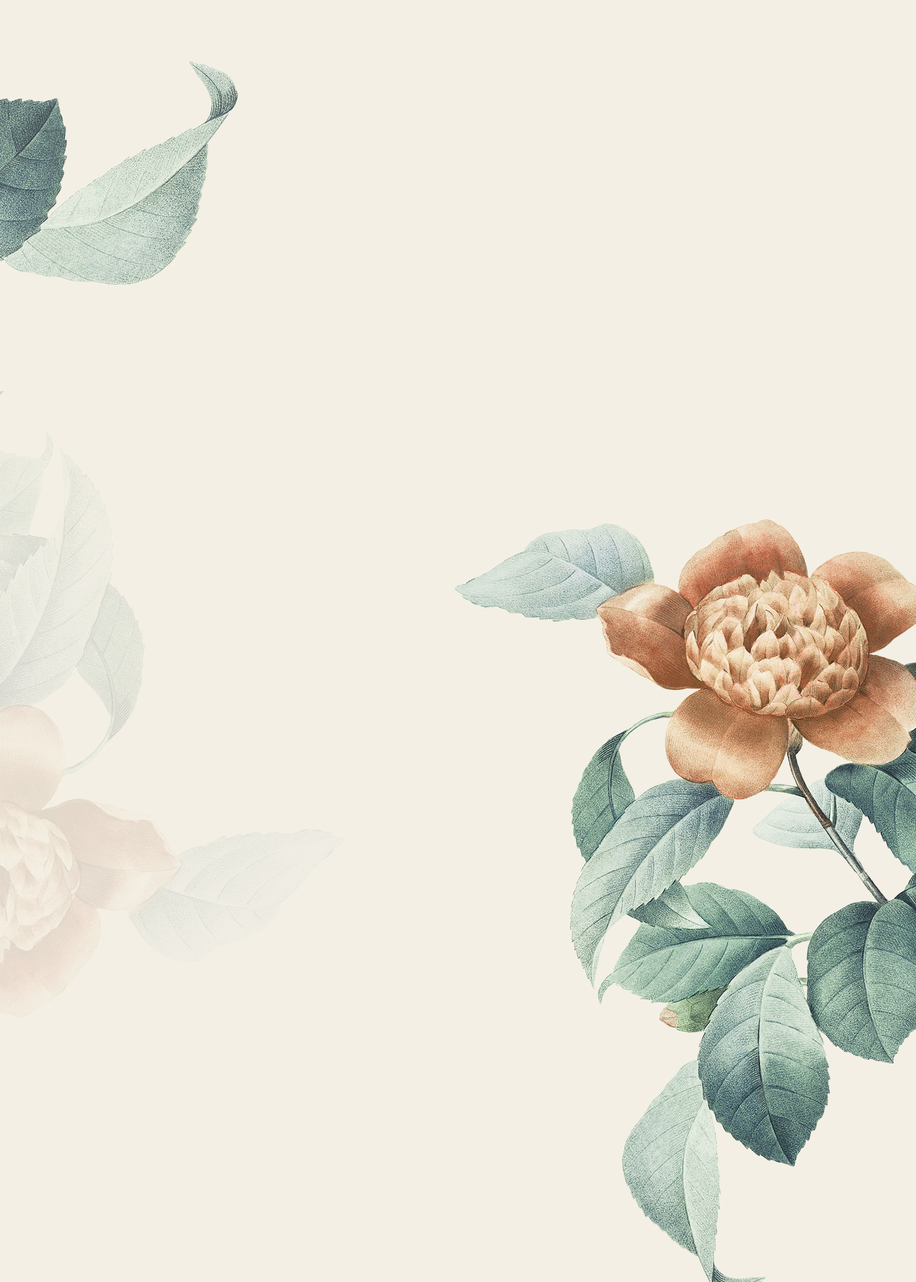
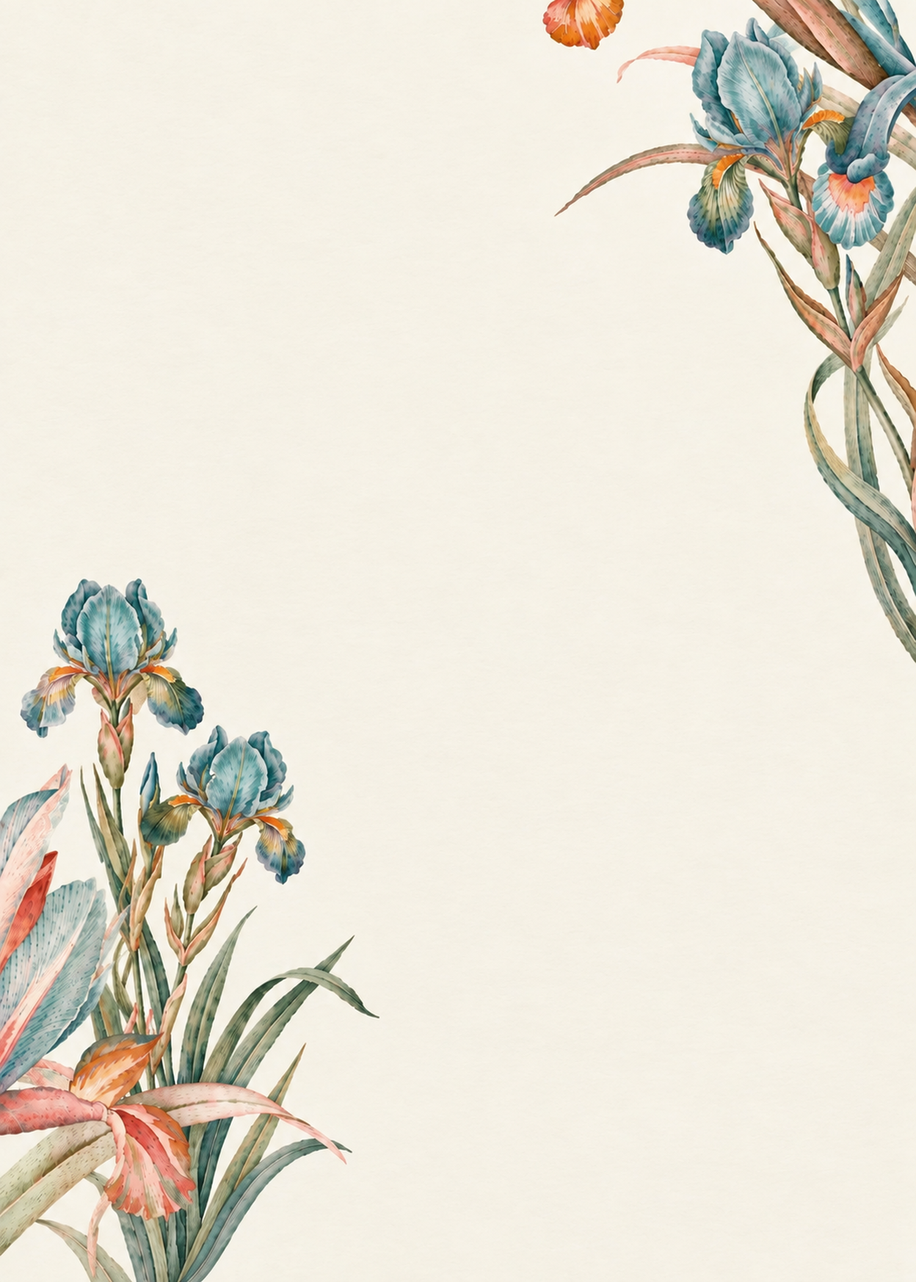
Degradado en los fondos | Cambios en tipografia inicial | Adicion de fotos nuevas

diff --git a/src/components/Invitacion/Direccion/Direccion.jsx b/src/components/Invitacion/Direccion/Direccion.jsx
@@ -52,15 +52,15 @@ export default function Direccion() {
                     variants={itemVariants}
                 >
                     <motion.p
-                        className="text-4xl"
+                        className="sm:text-4xl md:text-5xl lg:text-[2rem] xl:text-6xl 2xl:text-[2.6rem] 3xl:text-7xl"
                         variants={itemVariants}
                     >
                         Ceremonia
                     </motion.p>
-                    <motion.p variants={itemVariants} className="font-herr-von-muellerhoff text-3xl">
+                    <motion.p variants={itemVariants} className="font-herr-von-muellerhoff sm:text-2xl md:text-3xl lg:text-[1.5rem] xl:text-4xl 2xl:text-[2.2rem] 3xl:text-5xl">
                         Parroquia Santa María de Jesús
                     </motion.p>
-                    <motion.p variants={itemVariants} className="font-baskervville text-3xl">
+                    <motion.p variants={itemVariants} className="font-baskervville sm:text-2xl md:text-3xl lg:text-[1.5rem] xl:text-4xl 2xl:text-[2.2rem] 3xl:text-5xl">
                         13:30
                     </motion.p>
                 </motion.div>
@@ -69,11 +69,11 @@ export default function Direccion() {
                     variants={itemVariants}
                 >
                     <motion.img 
-                        src={parroquia} alt="Salón las Adelfas" 
+                        src={parroquia} alt="Parroquía Santa María de Jesús" 
                         className="
                         h-full
                         bg-cover bg-center bg-no-repeat
-                        [mask-image:radial-gradient(ellipse_at_center,black_50%,transparent_100%)]
+                        [mask-image:radial-gradient(ellipse_at_center,#F3EFE4_50%,transparent_90%)]
                         "
                     />
                 </motion.div>
@@ -87,7 +87,7 @@ export default function Direccion() {
                         className="
                         h-full
                         bg-cover bg-center bg-no-repeat
-                        [mask-image:radial-gradient(ellipse_at_center,black_50%,transparent_100%)]
+                        [mask-image:radial-gradient(ellipse_at_center,#F3EFE4_50%,transparent_90%)]
                         "
                     />
                 </motion.div>
@@ -100,15 +100,15 @@ export default function Direccion() {
                     variants={itemVariants}
                 >
                     <motion.p
-                        className="text-4xl"
+                        className="sm:text-4xl md:text-5xl lg:text-[2rem] xl:text-6xl 2xl:text-[2.6rem] 3xl:text-7xl"
                         variants={itemVariants}
                     >
                         Celebración
                     </motion.p>
-                    <motion.p variants={itemVariants} className="font-herr-von-muellerhoff text-3xl">
+                    <motion.p variants={itemVariants} className="font-herr-von-muellerhoff sm:text-2xl md:text-3xl lg:text-[1.5rem] xl:text-4xl 2xl:text-[2.2rem] 3xl:text-5xl">
                         Salón las Adelfas
                     </motion.p>
-                    <motion.p variants={itemVariants} className="font-baskervville text-3xl">
+                    <motion.p variants={itemVariants} className="font-baskervville sm:text-2xl md:text-3xl lg:text-[1.5rem] xl:text-4xl 2xl:text-[2.2rem] 3xl:text-5xl">
                         15:00
                     </motion.p>
                 </motion.div>

diff --git a/src/fonts.css b/src/fonts.css
@@ -1,4 +1,6 @@
-@import url("https://fonts.googleapis.com/css2?family=Baskervville:ital,wght@0,400..700;1,400..700&family=Cinzel+Decorative:wght@400;700;900&family=Cinzel:wght@400..900&family=Herr+Von+Muellerhoff&family=Libre+Baskerville:ital,wght@0,400..700;1,400..700&family=Pinyon+Script&display=swap");
+/* @import url("https://fonts.googleapis.com/css2?family=Baskervville:ital,wght@0,400..700;1,400..700&family=Cinzel+Decorative:wght@400;700;900&family=Cinzel:wght@400..900&family=Herr+Von+Muellerhoff&family=Libre+Baskerville:ital,wght@0,400..700;1,400..700&family=Pinyon+Script&display=swap"); */
+
+@import url("https://fonts.googleapis.com/css2?family=Ballet:opsz@16..72&family=Baskervville:ital,wght@0,400..700;1,400..700&family=Cinzel+Decorative:wght@400;700;900&family=Cinzel:wght@400..900&family=Herr+Von+Muellerhoff&family=Libre+Baskerville:ital,wght@0,400..700;1,400..700&family=Pinyon+Script&display=swap");
 
 @import "tailwindcss";
 
@@ -9,6 +11,7 @@
     --font-baskervville: "Baskervville", serif;
     --font-herr-von-muellerhoff: "Herr Von Muellerhoff", cursive;
     --font-libre-baskerville: "Libre Baskerville", serif;
+    --font-ballet: "Ballet", sans-serif;
     --breakpoint-3xl: 120rem;
     --breakpoint-4xl: 160rem;
 }

diff --git a/src/components/Invitacion/Inicio/Inicio.jsx b/src/components/Invitacion/Inicio/Inicio.jsx
@@ -8,11 +8,17 @@ export default function Inicio() {
             className="
                 flex flex-col items-center justify-center min-h-screen 
                 bg-cover bg-center bg-no-repeat
-                font-herr-von-muellerhoff text-8xl text-[#6a837f] gap-6"
-                style = {{ backgroundImage: `url(${fondo})` }}
+                font-ballet text-8xl text-[#6a837f]
+                select-none 
+                mb-10 md:mb-12 lg:mb-15 xl:mb-20 2xl:mb-30 3xl:mb-50
+                "
+                style = {{ backgroundImage: `
+                    linear-gradient(to bottom, transparent 90%, #F3EFE4 100%),    
+                    url(${fondo})
+                    ` }}
                 >
             <motion.div
-                className="flex flex-col items-center justify-center gap-2 w-fit"
+                className="flex flex-col items-center justify-center gap-12 w-fit"
                 initial={{ opacity: 0 }}
                 animate={{ opacity: 1 }}
                 transition={{

diff --git a/src/components/Invitacion/Confirmacion/Confirmacion.jsx b/src/components/Invitacion/Confirmacion/Confirmacion.jsx
@@ -444,14 +444,17 @@ export default function Confirmacion() {
     return (
         <motion.section
             className="
-                flex flex-col items-center justify-center
+                flex flex-col items-center justify-center min-h-screen
                 h-fit py-10
                 text-4xl
                 font-herr-von-muellerhoff
                 text-black
                 bg-cover bg-center bg-no-repeat
             "
-            style = {{ backgroundImage: `url(${fondo})` }}
+            style = {{ backgroundImage: `
+                linear-gradient(to top, transparent 90%, #F3EFE4 100%),    
+                url(${fondo})
+                ` }}
             initial={{ opacity: 0 }}
             animate={{ opacity: 1 }}
             transition={{

diff --git a/src/components/Invitacion/Timeline/Timeline.jsx b/src/components/Invitacion/Timeline/Timeline.jsx
@@ -140,8 +140,13 @@ export default function Timeline() {
                 flex h-fit flex-col items-center justify-center py-10 
                 text-4xl font-herr-von-muellerhoff text-black
                 bg-cover bg-center bg-no-repeat
+                mb-10 md:mb-12 lg:mb-15 xl:mb-20 2xl:mb-30 3xl:mb-50
                 "
-            style={{backgroundImage: `url(${fondo})`}}
+            style = {{ backgroundImage: `
+                linear-gradient(to top, transparent 90%, #F3EFE4 100%),    
+                linear-gradient(to bottom, transparent 90%, #F3EFE4 100%),    
+                url(${fondo})
+                ` }}
             initial={{ opacity: 0 }}
             animate={{ opacity: 1 }}
             transition={{

diff --git a/src/components/Invitacion/Dresscode/Dresscode.jsx b/src/components/Invitacion/Dresscode/Dresscode.jsx
@@ -15,7 +15,11 @@ export default function Dresscode() {
                 text-4xl font-herr-von-muellerhoff text-black
                 bg-cover bg-center bg-no-repeat
                 "
-                style={{backgroundImage: `url(${fondo})`}}
+                style = {{ backgroundImage: `
+                    linear-gradient(to top, transparent 90%, #F3EFE4 100%),    
+                    linear-gradient(to bottom, transparent 90%, #F3EFE4 100%),    
+                    url(${fondo})
+                    ` }}
             >
                 <motion.p
                 initial={{ opacity: 0 }}

diff --git a/src/components/Invitacion/Poesia/Poesia.jsx b/src/components/Invitacion/Poesia/Poesia.jsx
@@ -16,7 +16,10 @@ export default function Poesia() {
                 text-black font-baskervville
                 bg-cover bg-center bg-no-repeat
                 "
-                style = {{ backgroundImage: `url(${fondo})` }}
+                style = {{ backgroundImage: `
+                    linear-gradient(to top, transparent 80%, #F3EFE4 100%),    
+                    linear-gradient(to bottom, transparent 90%, #F3EFE4 100%),    
+                    url(${fondo})` }}
             >  
                 <motion.div
                     className="
